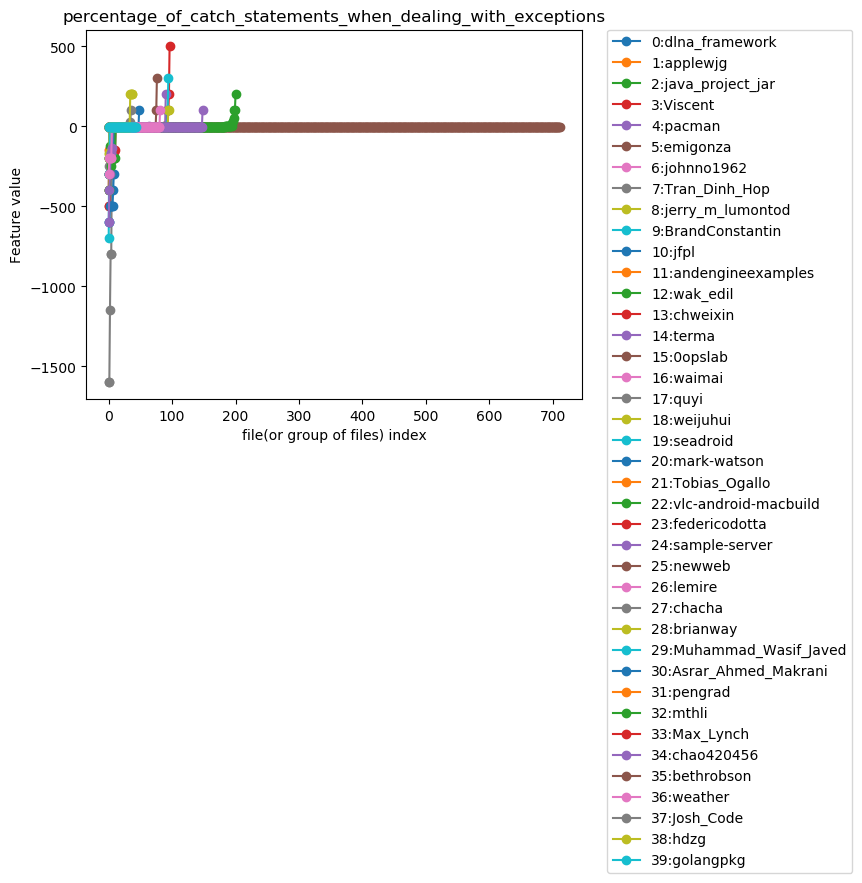
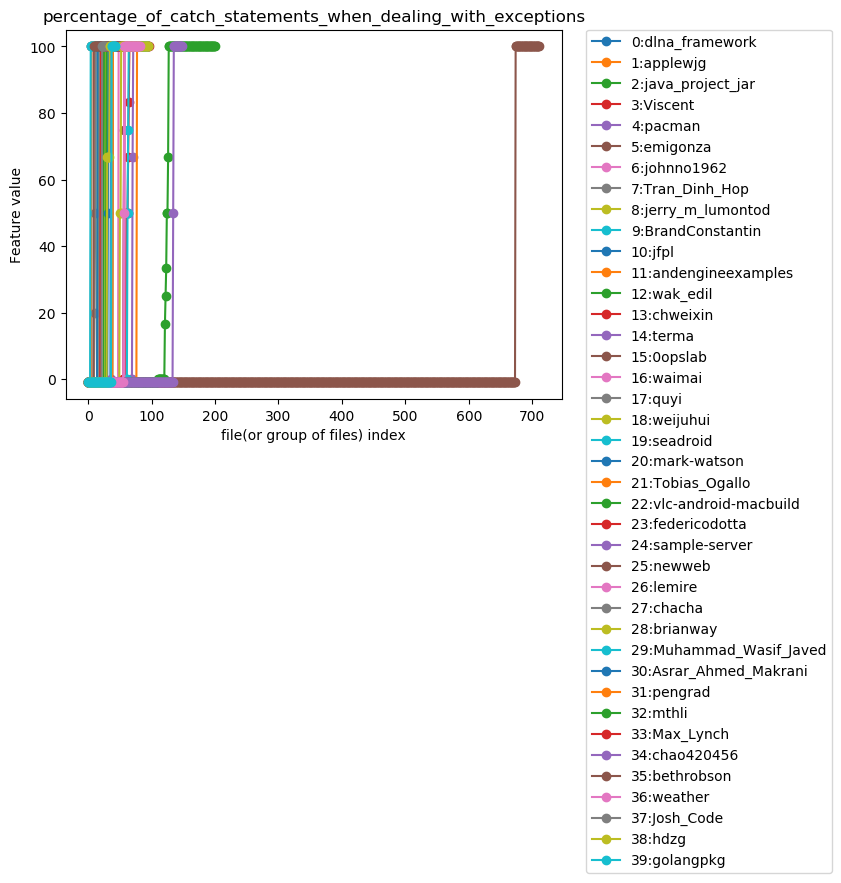
Fixed catch statements metric.

diff --git a/psob_authorship/features/java/ast_metrics/StatementsMetricsCalculator.py b/psob_authorship/features/java/ast_metrics/StatementsMetricsCalculator.py
@@ -66,16 +66,18 @@ class StatementsMetricsCalculator:
 
     def percentage_of_catch_statements_when_dealing_with_exceptions(self, filepaths: Set[str]) -> float:
         """
+        TODO: Consider if account only one catch per try even if it has several catches.
+        TODO: Find out why was below zero? write tests.
         Catches are accounted with tries, that is why we need to subtract catches from tries.
         :param filepaths: paths to files for which metric should be calculated
         :return: (number of catches statements) / (number of tries statements) * 100
         """
-        return divide_with_percentage_and_handling_zero_division(
+        return min(divide_with_percentage_and_handling_zero_division(
             sum([self.catches_for_file[filepath] for filepath in filepaths]),
-            sum([self.tries_for_file[filepath] - self.catches_for_file[filepath] for filepath in filepaths]),
+            sum([self.tries_for_file[filepath] for filepath in filepaths]),
             self.LOGGER,
             "calculating percentage of if statements to all conditional statements for " + str(filepaths)
-        )
+        ), 100.0)
 
     def ratio_of_branch_statements(self, filepaths: Set[str]) -> float:
         """

diff --git a/psob_authorship/features/java/ast_metrics/AstMetricsCalculator.py b/psob_authorship/features/java/ast_metrics/AstMetricsCalculator.py
@@ -18,7 +18,7 @@ class AstMetricsCalculator:
         self.asts = FileAst.load_asts_from_files(ast_path, filenames)
         self.LOGGER.info("End loading ast to memory")
         self.variable_metrics_calculator = VariableMetricsCalculator(self.asts)
-        self.loops_metrics_calculator = StatementsMetricsCalculator(self.asts, character_number_for_file)
+        self.statements_metrics_calculator = StatementsMetricsCalculator(self.asts, character_number_for_file)
         self.LOGGER.info("End calculating ast metrics")
 
     def maximum_depth_of_an_ast(self, filepaths: Set[str]) -> torch.Tensor:
@@ -34,7 +34,7 @@ class AstMetricsCalculator:
     def get_metrics(self, filepaths: Set[str]) -> torch.Tensor:
         return torch.cat((
             self.variable_metrics_calculator.get_metrics(filepaths),
-            self.loops_metrics_calculator.get_metrics(filepaths),
+            self.statements_metrics_calculator.get_metrics(filepaths),
             self.maximum_depth_of_an_ast(filepaths)
         ))
 

diff --git a/psob_authorship/experiment/one_split_fit.py b/psob_authorship/experiment/one_split_fit.py
@@ -32,7 +32,7 @@ INPUT_LABELS = torch.load(CONFIG['labels_features_common_name'] + "_labels.tr").
 
 
 def fit_model(file_to_print):
-    logger = logging.getLogger('one_split_fir')
+    logger = logging.getLogger('one_split_fit')
     configure_logger_by_default(logger)
     logger.info("START fit_model")
 
